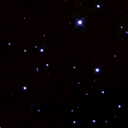
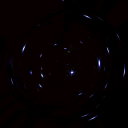
Added unique background colors for scenes

diff --git a/src/Scene/SceneBattle.cpp b/src/Scene/SceneBattle.cpp
@@ -2,8 +2,8 @@
 
 void SceneBattle::OnActivated()
 {
-    m_Camera.position = Vector3{1.f, 1.f, 1.f};
-    //m_Camera.target = Vector3{1.f, 0.f, 1.f};
+    m_Camera.position = Vector3{1.f, 8.f, 1.f};
+    m_Camera.target = (Vector3){0185.f, 0.4f, 0.f};
     m_Camera.up = Vector3{0.f, 1.f, 0.f};
     m_Camera.fovy = 45.f;
     m_Camera.projection = CAMERA_PERSPECTIVE;
@@ -26,7 +26,7 @@ void SceneBattle::OnUpdate()
 
 void SceneBattle::OnDraw3D()
 {
-    DrawModel(m_Skybox, Vector3{0.f, 0.f, 0.f}, 1.f, WHITE);
+    DrawModel(m_Skybox, Vector3{0.f, -6.f, 0.f}, 10.f, WHITE);
 }
 
 void SceneBattle::OnDraw2D()

diff --git a/src/raylib-test.cpp b/src/raylib-test.cpp
@@ -26,7 +26,8 @@ int main()
         SceneManager::GetInstance().Update();
 
         BeginDrawing();
-            ClearBackground(RAYWHITE);
+            //ClearBackground(RAYWHITE);
+            SceneManager::GetInstance().ClearScreen();
             
             SceneManager::GetInstance().Draw3D();
             SceneManager::GetInstance().Draw();

diff --git a/src/Scene/SceneMainMenu.cpp b/src/Scene/SceneMainMenu.cpp
@@ -31,7 +31,7 @@ void SceneMainMenu::OnUpdate()
     {
         if(IsGamepadButtonPressed(0, GAMEPAD_BUTTON_MIDDLE_RIGHT))
         {   
-            SceneManager::GetInstance().LoadScene(SCENE_MAZE);
+            SceneManager::GetInstance().LoadScene(SCENE_BATTLE);
         }
     }
 }

diff --git a/src/Scene/SceneManager.cpp b/src/Scene/SceneManager.cpp
@@ -42,6 +42,11 @@ void SceneManager::Draw3D()
     EndMode3D();
 }
 
+void SceneManager::ClearScreen()
+{
+    ClearBackground(m_ActiveScene->GetSceneBackgroundColor());
+}
+
 void SceneManager::Draw()
 {
     m_ActiveScene->OnDraw2D();

diff --git a/src/Scene/SceneBattle.h b/src/Scene/SceneBattle.h
@@ -11,6 +11,8 @@ public:
     void OnDraw2D();
     
     Camera& GetCamera() { return m_Camera; }
+
+    Color GetSceneBackgroundColor() { return BLACK; }
 private:
     Model m_Skybox;
     Camera m_Camera;

diff --git a/src/Scene/Scene.h b/src/Scene/Scene.h
@@ -10,4 +10,6 @@ public:
     virtual void OnDraw3D() = 0;
     virtual void OnDraw2D() = 0;
     virtual Camera& GetCamera() = 0;
+
+    virtual Color GetSceneBackgroundColor() { return RAYWHITE; }
 };

diff --git a/src/Scene/SceneManager.h b/src/Scene/SceneManager.h
@@ -32,6 +32,8 @@ public:
 
     void LoadScene(SceneId id);
 
+    void ClearScreen();
+
 private:
     SceneManager() = default;
     ~SceneManager() = default;
